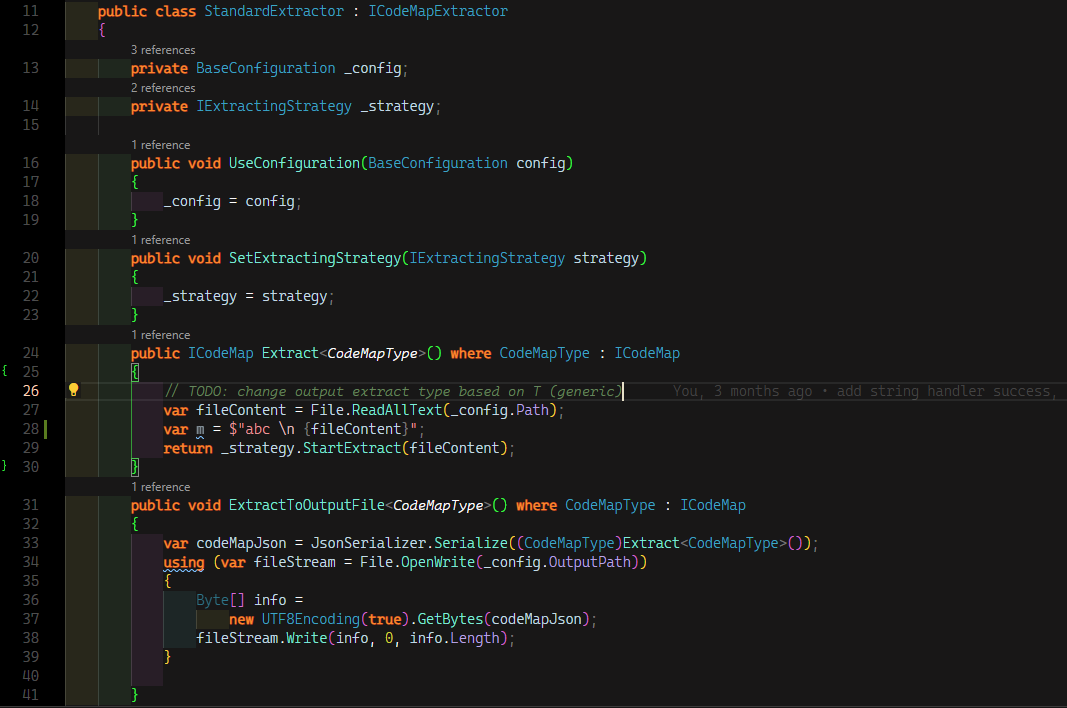
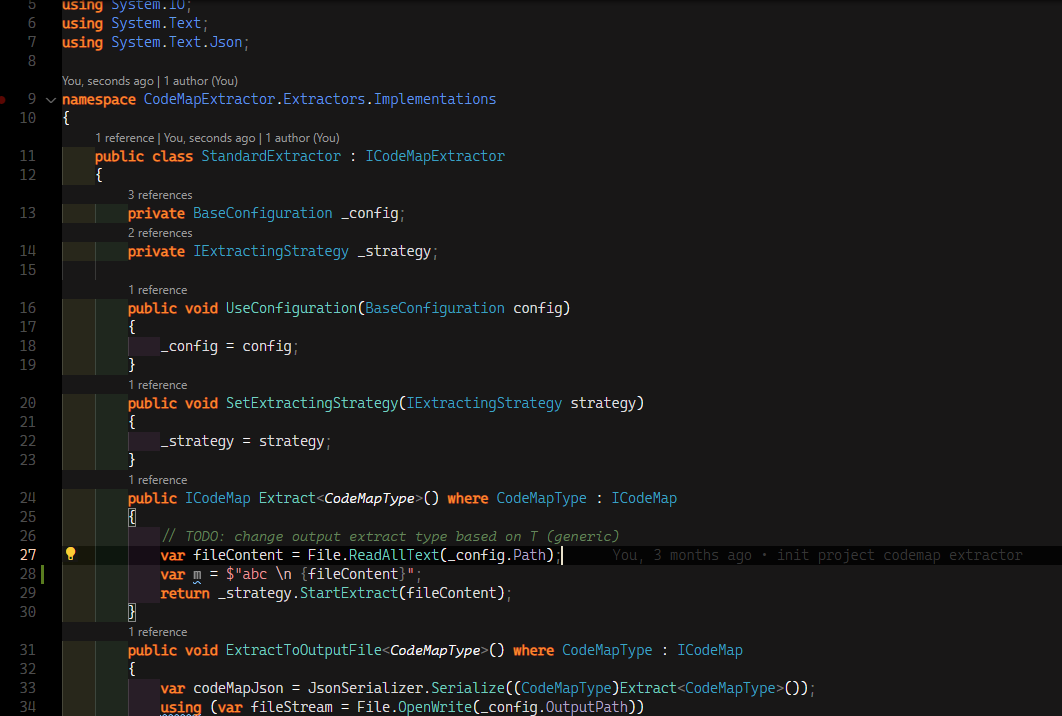
1.0.3

diff --git a/CHANGELOG.md b/CHANGELOG.md
@@ -1,6 +1,10 @@
 # Change Log
 
 
+## [1.0.3]
+
+- Reduce saturation & intensity of some colors
+
 ## [0.2.5]
 
 - Add markup colors
